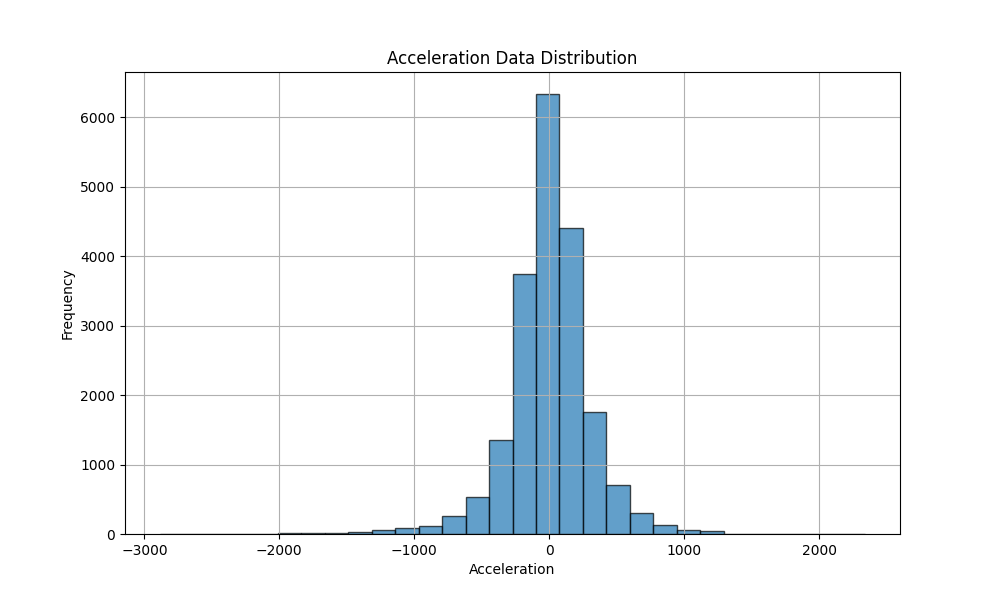
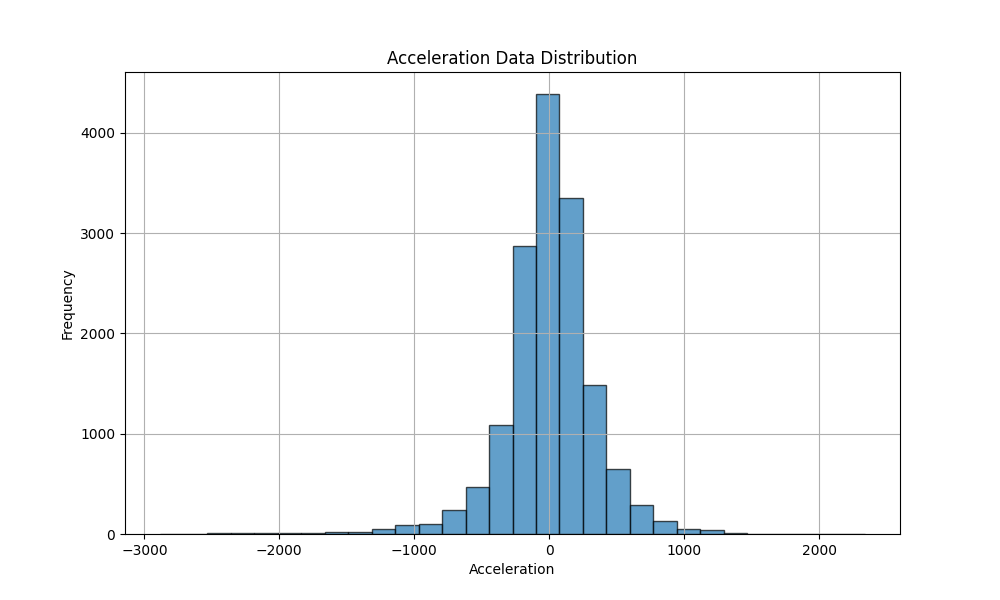
commit

diff --git a/expert_demonstration/dist_expert_walking.py b/expert_demonstration/dist_expert_walking.py
@@ -57,53 +57,58 @@ def load_antenna_dist(subject:str):
 with open('configs/irl.yml') as file:
     v = yaml.load(file, Loader=yaml.FullLoader)
 
+
 # Load the dataset
 data_source = str(v['data_source'])
 No1, No2, No3 = v[data_source]['No1'], v[data_source]['No2'], v[data_source]['No3']
-print(No1, No2, No3)
-
-# # When the data source is [all]
-# vel_01, direction_01, gait_01 = get_cont_data(No1)
-# vel_02, direction_02, gait_02 = get_cont_data(No2)
-# vel_03, direction_03, gait_03 = get_cont_data(No3)
-# acc_01, acc_02, acc_03 = calculate_acceleration(vel_01), calculate_acceleration(vel_02), calculate_acceleration(vel_03)
-# vel_13, direction_13, gait_13 = get_cont_data(No13)
-# vel_14, direction_14, gait_14 = get_cont_data(No14)
-# vel_15, direction_15, gait_15 = get_cont_data(No15)
-# acc_13, acc_14, acc_15 = calculate_acceleration(vel_13), calculate_acceleration(vel_14), calculate_acceleration(vel_15)
-# if data_source == 'C00':
-#     vel_25, direction_25, gait_25 = get_cont_data(No25, trim=True, trim_len=800)
-#     vel_26, direction_26, gait_26 = get_cont_data(No26, trim=True, trim_len=2200)
-#     vel_27, direction_27, gait_27 = get_cont_data(No27, trim=True, trim_len=1600)
-#     acc_25, acc_26, acc_27 = calculate_acceleration(vel_25), calculate_acceleration(vel_26), calculate_acceleration(vel_27)
-# else:
-#     vel_25, direction_25, gait_25 = get_cont_data(No25)
-#     vel_26, direction_26, gait_26 = get_cont_data(No26)
-#     vel_27, direction_27, gait_27 = get_cont_data(No27)
-#     acc_25, acc_26, acc_27 = calculate_acceleration(vel_25), calculate_acceleration(vel_26), calculate_acceleration(vel_27)
-# vel = np.concatenate((vel_01[1:], vel_02[1:], vel_03[1:], vel_13[1:], vel_14[1:], vel_15[1:], vel_25[1:], vel_26[1:], vel_27[1:]), axis=0)
-# direction = np.concatenate((direction_01[1:], direction_02[1:], direction_03[1:], direction_13[1:], direction_14[1:], direction_15[1:], direction_25[1:], direction_26[1:], direction_27[1:]), axis=0)
-# gait = np.concatenate((gait_01[1:], gait_02[1:], gait_03[1:], gait_13[1:], gait_14[1:], gait_15[1:], gait_25[1:], gait_26[1:], gait_27[1:]), axis=0)
-# acc = np.concatenate((acc_01, acc_02, acc_03, acc_13, acc_14, acc_15, acc_25, acc_26, acc_27), axis=0)
-# print("flatten trajectory length: ", len(acc))
-
-# When the data source is [one insect]
-if data_source == 'MedauroideaC00':
-    vel_01, direction_01, gait_01 = get_cont_data(No1, trim=True, trim_len=800)
-    vel_02, direction_02, gait_02 = get_cont_data(No2, trim=True, trim_len=2200)
-    vel_03, direction_03, gait_03 = get_cont_data(No3, trim=True, trim_len=1600)
-    acc_01, acc_02, acc_03 = calculate_acceleration(vel_01), calculate_acceleration(vel_02), calculate_acceleration(vel_03)
+No13, No14, No15 = v[data_source]['No13'], v[data_source]['No14'], v[data_source]['No15']
+No25, No26, No27 = v[data_source]['No25'], v[data_source]['No26'], v[data_source]['No27']
+# When the data source is [all]
+vel_01, direction_01, gait_01 = get_cont_data(No1)
+vel_02, direction_02, gait_02 = get_cont_data(No2)
+vel_03, direction_03, gait_03 = get_cont_data(No3)
+acc_01, acc_02, acc_03 = calculate_acceleration(vel_01), calculate_acceleration(vel_02), calculate_acceleration(vel_03)
+vel_13, direction_13, gait_13 = get_cont_data(No13)
+vel_14, direction_14, gait_14 = get_cont_data(No14)
+vel_15, direction_15, gait_15 = get_cont_data(No15)
+acc_13, acc_14, acc_15 = calculate_acceleration(vel_13), calculate_acceleration(vel_14), calculate_acceleration(vel_15)
+if data_source == 'C00':
+    vel_25, direction_25, gait_25 = get_cont_data(No25, trim=True, trim_len=800)
+    vel_26, direction_26, gait_26 = get_cont_data(No26, trim=True, trim_len=2200)
+    vel_27, direction_27, gait_27 = get_cont_data(No27, trim=True, trim_len=1600)
+    acc_25, acc_26, acc_27 = calculate_acceleration(vel_25), calculate_acceleration(vel_26), calculate_acceleration(vel_27)
 else:
-    vel_01, direction_01, gait_01 = get_cont_data(No1)
-    vel_02, direction_02, gait_02 = get_cont_data(No2)
-    vel_03, direction_03, gait_03 = get_cont_data(No3)
-    acc_01, acc_02, acc_03 = calculate_acceleration(vel_01), calculate_acceleration(vel_02), calculate_acceleration(vel_03)
-vel = np.concatenate((vel_01[1:], vel_02[1:], vel_03[1:]), axis=0)
-direction = np.concatenate((direction_01[1:], direction_02[1:], direction_03[1:]), axis=0)
-gait = np.concatenate((gait_01[1:], gait_02[1:], gait_03[1:]), axis=0)
-acc = np.concatenate((acc_01, acc_02, acc_03), axis=0)
-print("length of T"+No1+", T"+No2+", T"+No3+": ", len(acc_01), len(acc_02), len(acc_03))
-print("length of faltten trajectory:", len(acc))
+    vel_25, direction_25, gait_25 = get_cont_data(No25)
+    vel_26, direction_26, gait_26 = get_cont_data(No26)
+    vel_27, direction_27, gait_27 = get_cont_data(No27)
+    acc_25, acc_26, acc_27 = calculate_acceleration(vel_25), calculate_acceleration(vel_26), calculate_acceleration(vel_27)
+vel = np.concatenate((vel_01[1:], vel_02[1:], vel_03[1:], vel_13[1:], vel_14[1:], vel_15[1:], vel_25[1:], vel_26[1:], vel_27[1:]), axis=0)
+direction = np.concatenate((direction_01[1:], direction_02[1:], direction_03[1:], direction_13[1:], direction_14[1:], direction_15[1:], direction_25[1:], direction_26[1:], direction_27[1:]), axis=0)
+gait = np.concatenate((gait_01[1:], gait_02[1:], gait_03[1:], gait_13[1:], gait_14[1:], gait_15[1:], gait_25[1:], gait_26[1:], gait_27[1:]), axis=0)
+acc = np.concatenate((acc_01, acc_02, acc_03, acc_13, acc_14, acc_15, acc_25, acc_26, acc_27), axis=0)
+print("flatten trajectory length: ", len(acc))
+
+
+# # Load the dataset
+# data_source = str(v['data_source'])
+# No1, No2, No3 = v[data_source]['No1'], v[data_source]['No2'], v[data_source]['No3']
+# When the data source is [one insect]
+# if data_source == 'MedauroideaC00':
+#     vel_01, direction_01, gait_01 = get_cont_data(No1, trim=True, trim_len=800)
+#     vel_02, direction_02, gait_02 = get_cont_data(No2, trim=True, trim_len=2200)
+#     vel_03, direction_03, gait_03 = get_cont_data(No3, trim=True, trim_len=1600)
+#     acc_01, acc_02, acc_03 = calculate_acceleration(vel_01), calculate_acceleration(vel_02), calculate_acceleration(vel_03)
+# else:
+#     vel_01, direction_01, gait_01 = get_cont_data(No1)
+#     vel_02, direction_02, gait_02 = get_cont_data(No2)
+#     vel_03, direction_03, gait_03 = get_cont_data(No3)
+#     acc_01, acc_02, acc_03 = calculate_acceleration(vel_01), calculate_acceleration(vel_02), calculate_acceleration(vel_03)
+# vel = np.concatenate((vel_01[1:], vel_02[1:], vel_03[1:]), axis=0)
+# direction = np.concatenate((direction_01[1:], direction_02[1:], direction_03[1:]), axis=0)
+# gait = np.concatenate((gait_01[1:], gait_02[1:], gait_03[1:]), axis=0)
+# acc = np.concatenate((acc_01, acc_02, acc_03), axis=0)
+# print("length of T"+No1+", T"+No2+", T"+No3+": ", len(acc_01), len(acc_02), len(acc_03))
+# print("length of faltten trajectory:", len(acc))
 
 # save vel and acc
 plot_histogram(acc, title='Acceleration Data Distribution', xlabel='Acceleration', savename=data_source+'_histogram_acc')
@@ -150,8 +155,8 @@ if save:
     save_path = 'expert_demonstration/expert/'+data_source+'.csv'
     analysis_df.to_csv(save_path, index=False, header=True)
 
-# plot states
-plot_states(vel_01, vel_02, vel_03, direction_01, direction_02, direction_03, acc_01, acc_02, acc_03, data_source)
+# # plot states
+# plot_states(vel_01, vel_02, vel_03, direction_01, direction_02, direction_03, acc_01, acc_02, acc_03, data_source)
 
 # heat map
 # heatmap_direction_vel_reward(analysis_df)
